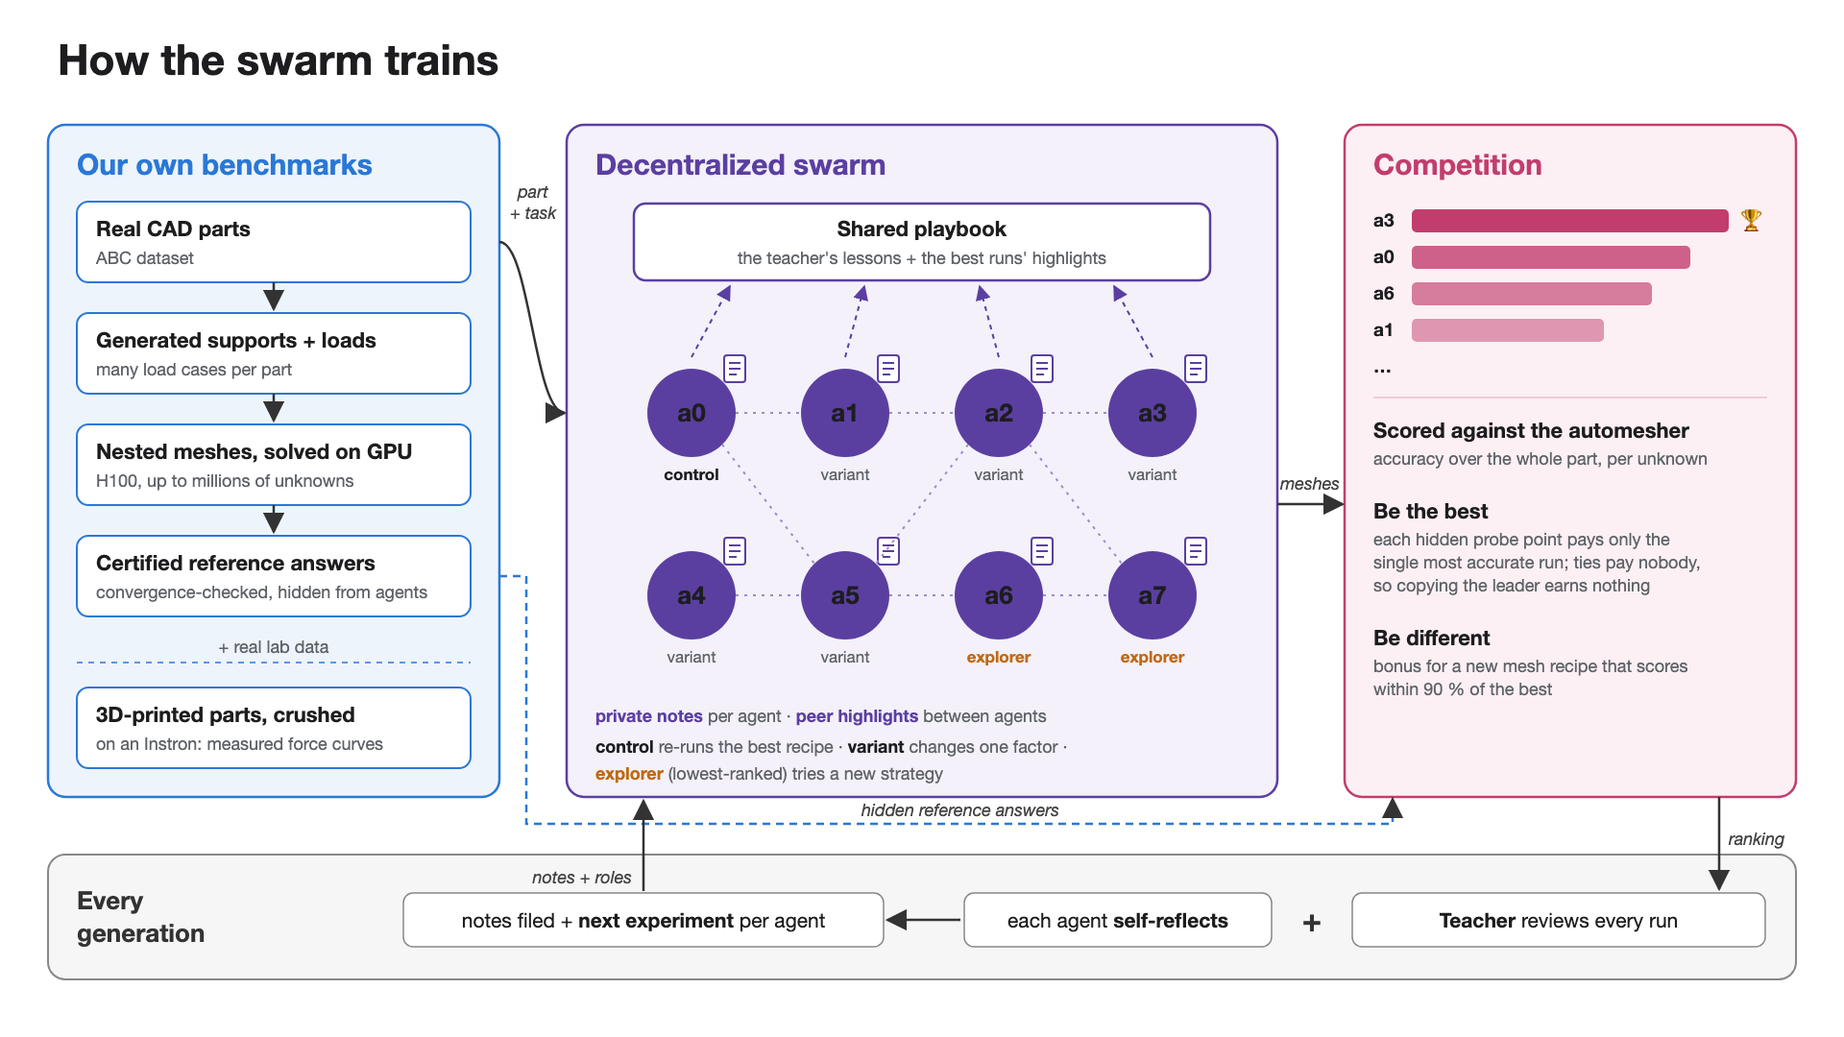
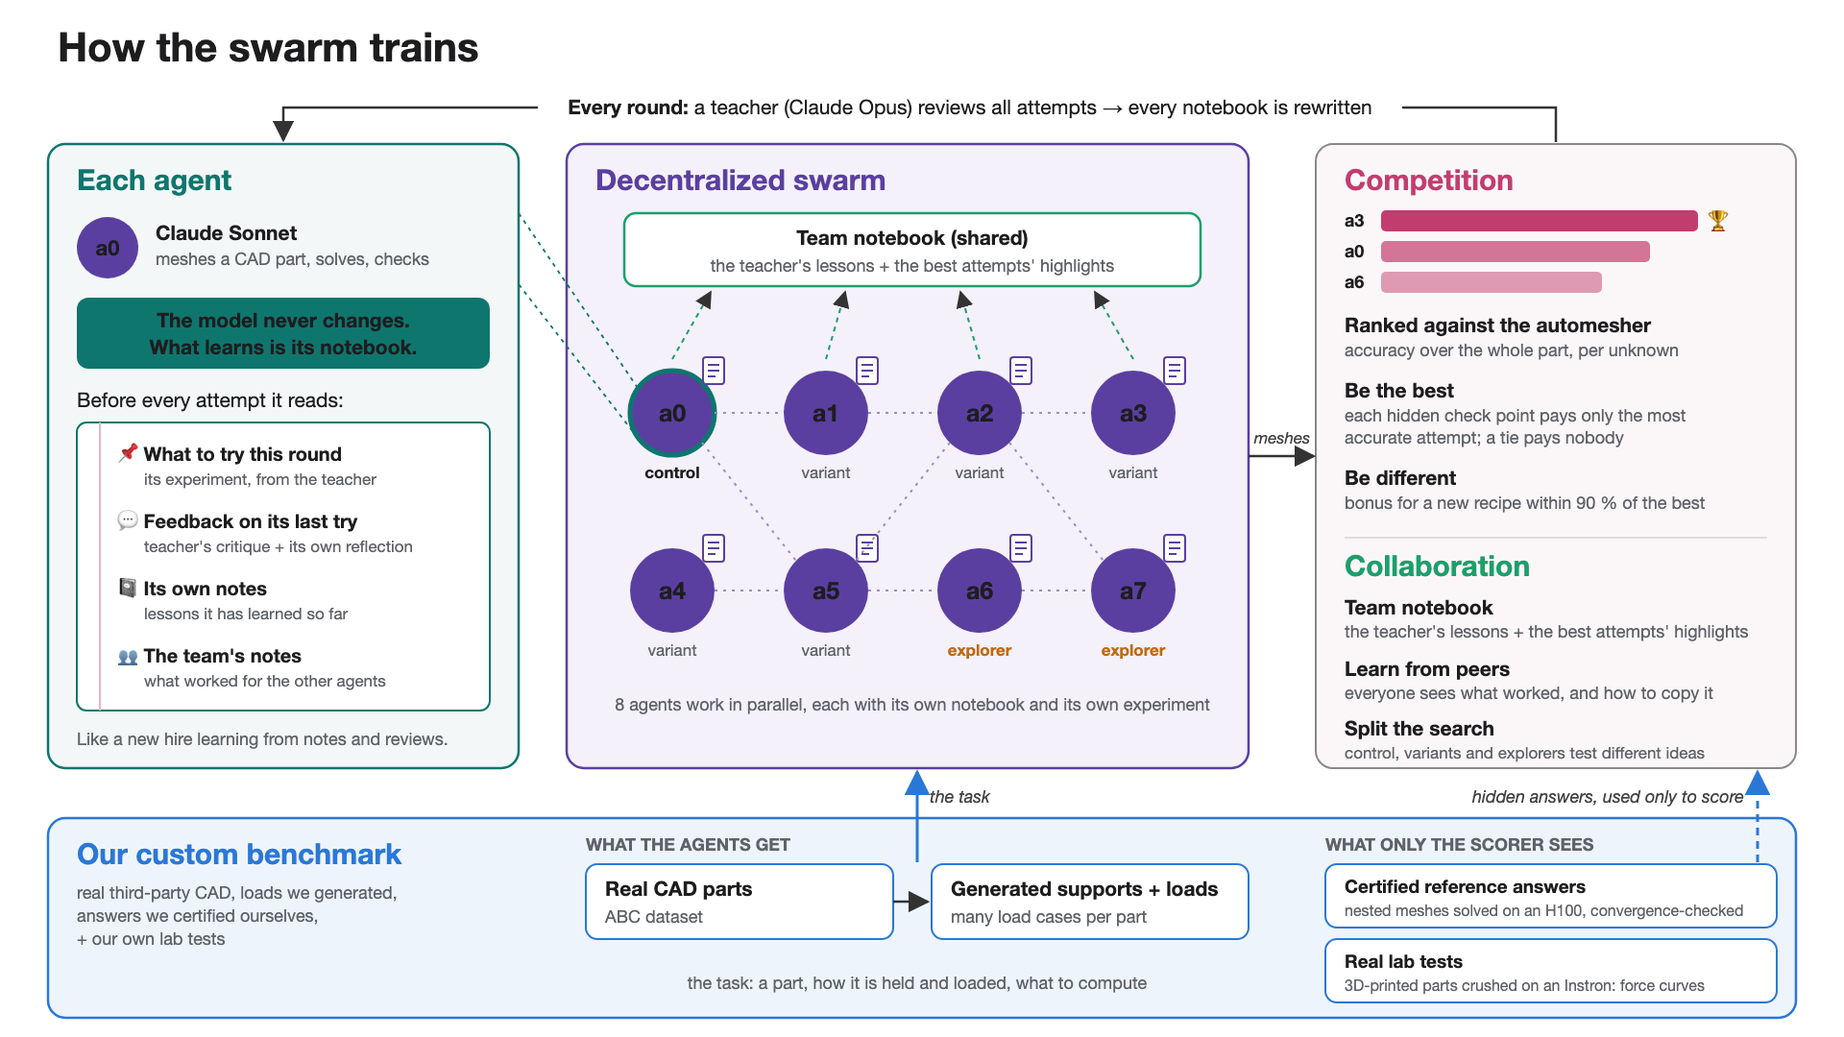
Talk schematic: agent + notebook (left), swarm (middle), competition + collaboration (right), custom benchmark feeding task and hidden answers (bottom)

Changed region(s): [[0.0312, 0.0306, 0.9688, 1.0], [0.3438, 0.5194, 0.6562, 0.6417]]

diff --git a/talk_plots/schematic/training_system.html b/talk_plots/schematic/training_system.html
@@ -4,7 +4,7 @@
   html, body { margin: 0; background: #ffffff; }
   svg { display: block; font-family: -apple-system, "Helvetica Neue", Helvetica, Arial, sans-serif; }
   .h { font-size: 30px; font-weight: 700; }
-  .t { font-size: 22px; fill: #1d1d1f; }
+  .t { font-size: 21px; fill: #1d1d1f; }
   .s { font-size: 18px; fill: #5f6368; }
   .b { font-weight: 700; }
   .lbl { font-size: 18px; fill: #444; font-style: italic; }
@@ -14,133 +14,136 @@
   <defs>
     <marker id="ar" viewBox="0 0 10 10" refX="9" refY="5" markerWidth="9" markerHeight="9" orient="auto-start-reverse">
       <path d="M0,0 L10,5 L0,10 z" fill="#333"/></marker>
-    <marker id="arp" viewBox="0 0 10 10" refX="9" refY="5" markerWidth="8" markerHeight="8" orient="auto-start-reverse">
-      <path d="M0,0 L10,5 L0,10 z" fill="#5b3fa0"/></marker>
+    <marker id="arb" viewBox="0 0 10 10" refX="9" refY="5" markerWidth="9" markerHeight="9" orient="auto-start-reverse">
+      <path d="M0,0 L10,5 L0,10 z" fill="#2a78d6"/></marker>
     <g id="notes"><rect x="0" y="0" width="22" height="28" rx="3" fill="#fff" stroke="#5b3fa0" stroke-width="2"/>
       <line x1="5" y1="8" x2="17" y2="8" stroke="#5b3fa0" stroke-width="2"/><line x1="5" y1="14" x2="17" y2="14" stroke="#5b3fa0" stroke-width="2"/>
       <line x1="5" y1="20" x2="13" y2="20" stroke="#5b3fa0" stroke-width="2"/></g>
   </defs>
 
-  <text x="60" y="78" style="font-size:44px;font-weight:800" fill="#1d1d1f">How the swarm trains</text>
+  <text x="60" y="64" style="font-size:42px;font-weight:800" fill="#1d1d1f">How the swarm trains</text>
 
-  <!-- ============ 1. benchmarks ============ -->
-  <rect x="50" y="130" width="470" height="700" rx="18" fill="#eef4fc" stroke="#2a78d6" stroke-width="2.5"/>
-  <text x="80" y="182" class="h" fill="#2a78d6">Our own benchmarks</text>
-  <g>
-    <rect x="80" y="210" width="410" height="84" rx="12" fill="#fff" stroke="#2a78d6" stroke-width="2"/>
-    <text x="100" y="246" class="t b">Real CAD parts</text><text x="100" y="275" class="s">ABC dataset</text>
-    <line x1="285" y1="294" x2="285" y2="322" stroke="#333" stroke-width="2.5" marker-end="url(#ar)"/>
-    <rect x="80" y="326" width="410" height="84" rx="12" fill="#fff" stroke="#2a78d6" stroke-width="2"/>
-    <text x="100" y="362" class="t b">Generated supports + loads</text><text x="100" y="391" class="s">many load cases per part</text>
-    <line x1="285" y1="410" x2="285" y2="438" stroke="#333" stroke-width="2.5" marker-end="url(#ar)"/>
-    <rect x="80" y="442" width="410" height="84" rx="12" fill="#fff" stroke="#2a78d6" stroke-width="2"/>
-    <text x="100" y="478" class="t b">Nested meshes, solved on GPU</text><text x="100" y="507" class="s">H100, up to millions of unknowns</text>
-    <line x1="285" y1="526" x2="285" y2="554" stroke="#333" stroke-width="2.5" marker-end="url(#ar)"/>
-    <rect x="80" y="558" width="410" height="84" rx="12" fill="#fff" stroke="#2a78d6" stroke-width="2"/>
-    <text x="100" y="594" class="t b">Certified reference answers</text><text x="100" y="623" class="s">convergence-checked, hidden from agents</text>
-  </g>
-  <line x1="80" y1="690" x2="490" y2="690" stroke="#2a78d6" stroke-width="1.5" stroke-dasharray="6 6"/>
-  <text x="285" y="680" class="s" text-anchor="middle" fill="#2a78d6">+ real lab data</text>
-  <g>
-    <rect x="80" y="716" width="410" height="84" rx="12" fill="#fff" stroke="#2a78d6" stroke-width="2"/>
-    <text x="100" y="752" class="t b">3D-printed parts, crushed</text><text x="100" y="781" class="s">on an Instron: measured force curves</text>
-  </g>
+  <!-- ===== every-generation loop (over the top: results -> rewritten notebooks) ===== -->
+  <path d="M1620,148 L1620,112 L295,112 L295,146" stroke="#333" stroke-width="2.5" fill="none" marker-end="url(#ar)"/>
+  <rect x="560" y="96" width="900" height="32" fill="#fff"/>
+  <text x="1010" y="119" class="t" text-anchor="middle" style="font-size:21px"><tspan class="b">Every round:</tspan> a teacher (Claude Opus) reviews all attempts → every notebook is rewritten</text>
 
-  <!-- ============ 2. decentralized swarm ============ -->
-  <rect x="590" y="130" width="740" height="700" rx="18" fill="#f4f1fb" stroke="#5b3fa0" stroke-width="2.5"/>
-  <text x="620" y="182" class="h" fill="#5b3fa0">Decentralized swarm</text>
-  <!-- shared playbook -->
-  <rect x="660" y="212" width="600" height="80" rx="12" fill="#fff" stroke="#5b3fa0" stroke-width="2.5"/>
-  <text x="960" y="246" class="t b" text-anchor="middle">Shared playbook</text>
-  <text x="960" y="275" class="s" text-anchor="middle">the teacher's lessons + the best runs' highlights</text>
-  <!-- promotion arrows -->
-  <g stroke="#5b3fa0" stroke-width="2" stroke-dasharray="5 5" fill="none" marker-end="url(#arp)">
-    <path d="M720,372 L760,298"/><path d="M880,372 L900,298"/><path d="M1040,372 L1020,298"/><path d="M1200,372 L1160,298"/>
+  <!-- ================= LEFT: one agent, learning by notebook ================= -->
+  <rect x="50" y="150" width="490" height="650" rx="18" fill="#f3f7f7" stroke="#0f766e" stroke-width="2.5"/>
+  <text x="80" y="198" class="h" fill="#0f766e">Each agent</text>
+  <circle cx="112" cy="258" r="32" fill="#5b3fa0"/><text x="112" y="266" class="t b" fill="#fff" text-anchor="middle" style="font-size:22px">a0</text>
+  <text x="162" y="250" class="t b">Claude Sonnet</text>
+  <text x="162" y="276" class="s">meshes a CAD part, solves, checks</text>
+  <rect x="80" y="310" width="430" height="74" rx="12" fill="#0f766e"/>
+  <text x="295" y="341" class="t b" fill="#fff" text-anchor="middle">The model never changes.</text>
+  <text x="295" y="369" class="t b" fill="#fff" text-anchor="middle">What learns is its notebook.</text>
+  <text x="80" y="424" class="t">Before every attempt it reads:</text>
+  <!-- notebook -->
+  <rect x="80" y="440" width="430" height="300" rx="10" fill="#fff" stroke="#0f766e" stroke-width="2"/>
+  <line x1="104" y1="440" x2="104" y2="740" stroke="#e8b4c4" stroke-width="2"/>
+  <g class="t" style="font-size:20px">
+    <text x="122" y="480" class="b">📌 What to try this round</text>
+    <text x="150" y="505" class="s" style="font-size:17px">its experiment, from the teacher</text>
+    <text x="122" y="550" class="b">💬 Feedback on its last try</text>
+    <text x="150" y="575" class="s" style="font-size:17px">teacher's critique + its own reflection</text>
+    <text x="122" y="620" class="b">📓 Its own notes</text>
+    <text x="150" y="645" class="s" style="font-size:17px">lessons it has learned so far</text>
+    <text x="122" y="690" class="b">👥 The team's notes</text>
+    <text x="150" y="715" class="s" style="font-size:17px">what worked for the other agents</text>
   </g>
-  <!-- agents -->
-  <g id="agents">
-    <!-- row 1 -->
-    <g transform="translate(720,430)"><circle r="46" fill="#5b3fa0"/><text y="9" class="t b" fill="#fff" text-anchor="middle" style="font-size:26px">a0</text><use href="#notes" x="34" y="-60"/></g>
-    <g transform="translate(880,430)"><circle r="46" fill="#5b3fa0"/><text y="9" class="t b" fill="#fff" text-anchor="middle" style="font-size:26px">a1</text><use href="#notes" x="34" y="-60"/></g>
-    <g transform="translate(1040,430)"><circle r="46" fill="#5b3fa0"/><text y="9" class="t b" fill="#fff" text-anchor="middle" style="font-size:26px">a2</text><use href="#notes" x="34" y="-60"/></g>
-    <g transform="translate(1200,430)"><circle r="46" fill="#5b3fa0"/><text y="9" class="t b" fill="#fff" text-anchor="middle" style="font-size:26px">a3</text><use href="#notes" x="34" y="-60"/></g>
-    <!-- row 2 -->
-    <g transform="translate(720,620)"><circle r="46" fill="#5b3fa0"/><text y="9" class="t b" fill="#fff" text-anchor="middle" style="font-size:26px">a4</text><use href="#notes" x="34" y="-60"/></g>
-    <g transform="translate(880,620)"><circle r="46" fill="#5b3fa0"/><text y="9" class="t b" fill="#fff" text-anchor="middle" style="font-size:26px">a5</text><use href="#notes" x="34" y="-60"/></g>
-    <g transform="translate(1040,620)"><circle r="46" fill="#5b3fa0"/><text y="9" class="t b" fill="#fff" text-anchor="middle" style="font-size:26px">a6</text><use href="#notes" x="34" y="-60"/></g>
-    <g transform="translate(1200,620)"><circle r="46" fill="#5b3fa0"/><text y="9" class="t b" fill="#fff" text-anchor="middle" style="font-size:26px">a7</text><use href="#notes" x="34" y="-60"/></g>
+  <text x="80" y="776" class="s">Like a new hire learning from notes and reviews.</text>
+
+  <!-- ================= MIDDLE: the swarm ================= -->
+  <rect x="590" y="150" width="710" height="650" rx="18" fill="#f4f1fb" stroke="#5b3fa0" stroke-width="2.5"/>
+  <text x="620" y="198" class="h" fill="#5b3fa0">Decentralized swarm</text>
+  <rect x="650" y="222" width="600" height="76" rx="12" fill="#fff" stroke="#1e9e6a" stroke-width="2.5"/>
+  <text x="950" y="255" class="t b" text-anchor="middle">Team notebook (shared)</text>
+  <text x="950" y="283" class="s" text-anchor="middle">the teacher's lessons + the best attempts' highlights</text>
+  <g stroke="#1e9e6a" stroke-width="2" stroke-dasharray="5 5" fill="none" marker-end="url(#ar)">
+    <path d="M700,374 L740,304"/><path d="M860,374 L880,304"/><path d="M1020,374 L1000,304"/><path d="M1180,374 L1140,304"/>
   </g>
-  <!-- role tags -->
+  <g>
+    <g transform="translate(700,430)"><circle r="44" fill="#5b3fa0" stroke="#0f766e" stroke-width="5"/><text y="9" class="t b" fill="#fff" text-anchor="middle" style="font-size:25px">a0</text><use href="#notes" x="32" y="-58"/></g>
+    <g transform="translate(860,430)"><circle r="44" fill="#5b3fa0"/><text y="9" class="t b" fill="#fff" text-anchor="middle" style="font-size:25px">a1</text><use href="#notes" x="32" y="-58"/></g>
+    <g transform="translate(1020,430)"><circle r="44" fill="#5b3fa0"/><text y="9" class="t b" fill="#fff" text-anchor="middle" style="font-size:25px">a2</text><use href="#notes" x="32" y="-58"/></g>
+    <g transform="translate(1180,430)"><circle r="44" fill="#5b3fa0"/><text y="9" class="t b" fill="#fff" text-anchor="middle" style="font-size:25px">a3</text><use href="#notes" x="32" y="-58"/></g>
+    <g transform="translate(700,615)"><circle r="44" fill="#5b3fa0"/><text y="9" class="t b" fill="#fff" text-anchor="middle" style="font-size:25px">a4</text><use href="#notes" x="32" y="-58"/></g>
+    <g transform="translate(860,615)"><circle r="44" fill="#5b3fa0"/><text y="9" class="t b" fill="#fff" text-anchor="middle" style="font-size:25px">a5</text><use href="#notes" x="32" y="-58"/></g>
+    <g transform="translate(1020,615)"><circle r="44" fill="#5b3fa0"/><text y="9" class="t b" fill="#fff" text-anchor="middle" style="font-size:25px">a6</text><use href="#notes" x="32" y="-58"/></g>
+    <g transform="translate(1180,615)"><circle r="44" fill="#5b3fa0"/><text y="9" class="t b" fill="#fff" text-anchor="middle" style="font-size:25px">a7</text><use href="#notes" x="32" y="-58"/></g>
+  </g>
   <g class="s" text-anchor="middle" style="font-size:17px">
-    <text x="720" y="500" fill="#1d1d1f" class="b">control</text>
-    <text x="880" y="500">variant</text><text x="1040" y="500">variant</text><text x="1200" y="500">variant</text>
-    <text x="720" y="690">variant</text><text x="880" y="690">variant</text>
-    <text x="1040" y="690" fill="#c06a12" class="b">explorer</text><text x="1200" y="690" fill="#c06a12" class="b">explorer</text>
+    <text x="700" y="498" fill="#1d1d1f" class="b">control</text>
+    <text x="860" y="498">variant</text><text x="1020" y="498">variant</text><text x="1180" y="498">variant</text>
+    <text x="700" y="683">variant</text><text x="860" y="683">variant</text>
+    <text x="1020" y="683" fill="#c06a12" class="b">explorer</text><text x="1180" y="683" fill="#c06a12" class="b">explorer</text>
   </g>
-  <!-- peer links -->
   <g stroke="#9b8cc8" stroke-width="2" fill="none" stroke-dasharray="3 6">
-    <path d="M766,430 L834,430"/><path d="M926,430 L994,430"/><path d="M1086,430 L1154,430"/>
-    <path d="M766,620 L834,620"/><path d="M926,620 L994,620"/><path d="M1086,620 L1154,620"/>
-    <path d="M752,463 L848,587"/><path d="M1072,463 L1168,587"/><path d="M1008,463 L912,587"/>
+    <path d="M744,430 L816,430"/><path d="M904,430 L976,430"/><path d="M1064,430 L1136,430"/>
+    <path d="M744,615 L816,615"/><path d="M904,615 L976,615"/><path d="M1064,615 L1136,615"/>
+    <path d="M731,461 L829,584"/><path d="M1051,461 L1149,584"/><path d="M989,461 L891,584"/>
   </g>
-  <text x="620" y="752" class="s"><tspan class="b" fill="#5b3fa0">private notes</tspan> per agent · <tspan class="b" fill="#5b3fa0">peer highlights</tspan> between agents</text>
-  <text x="620" y="784" class="s"><tspan class="b" fill="#1d1d1f">control</tspan> re-runs the best recipe · <tspan class="b" fill="#1d1d1f">variant</tspan> changes one factor ·</text>
-  <text x="620" y="812" class="s"><tspan class="b" fill="#c06a12">explorer</tspan> (lowest-ranked) tries a new strategy</text>
-
-  <!-- ============ 3. competition ============ -->
-  <rect x="1400" y="130" width="470" height="700" rx="18" fill="#fcf0f4" stroke="#c23d6e" stroke-width="2.5"/>
-  <text x="1430" y="182" class="h" fill="#c23d6e">Competition</text>
-  <!-- leaderboard -->
-  <g class="t" style="font-size:19px">
-    <text x="1430" y="236" class="b" fill="#1d1d1f">a3</text><rect x="1470" y="218" width="330" height="24" rx="5" fill="#c23d6e"/>
-    <text x="1812" y="238" style="font-size:22px">🏆</text>
-    <text x="1430" y="274" class="b" fill="#1d1d1f">a0</text><rect x="1470" y="256" width="290" height="24" rx="5" fill="#c23d6e" opacity="0.8"/>
-    <text x="1430" y="312" class="b" fill="#1d1d1f">a6</text><rect x="1470" y="294" width="250" height="24" rx="5" fill="#c23d6e" opacity="0.65"/>
-    <text x="1430" y="350" class="b" fill="#1d1d1f">a1</text><rect x="1470" y="332" width="200" height="24" rx="5" fill="#c23d6e" opacity="0.5"/>
-    <text x="1430" y="388" class="b" fill="#1d1d1f">…</text>
+  <text x="950" y="740" class="s" text-anchor="middle">8 agents work in parallel, each with its own notebook and its own experiment</text>
+  <!-- zoom: a0 is the agent described on the left -->
+  <g stroke="#0f766e" stroke-width="1.8" stroke-dasharray="4 5" fill="none">
+    <path d="M664,404 L540,222"/><path d="M664,456 L540,296"/>
   </g>
-  <line x1="1430" y1="414" x2="1840" y2="414" stroke="#c23d6e" stroke-width="1" opacity="0.4"/>
-  <text x="1430" y="456" class="t b">Scored against the automesher</text>
-  <text x="1430" y="484" class="s">accuracy over the whole part, per unknown</text>
-  <text x="1430" y="540" class="t b">Be the best</text>
-  <text x="1430" y="568" class="s">each hidden probe point pays only the</text>
-  <text x="1430" y="592" class="s">single most accurate run; ties pay nobody,</text>
-  <text x="1430" y="616" class="s">so copying the leader earns nothing</text>
-  <text x="1430" y="672" class="t b">Be different</text>
-  <text x="1430" y="700" class="s">bonus for a new mesh recipe that scores</text>
-  <text x="1430" y="724" class="s">within 90 % of the best</text>
 
-  <!-- ============ 4. learning loop (runs right to left) ============ -->
-  <rect x="50" y="890" width="1820" height="130" rx="18" fill="#f6f6f7" stroke="#888" stroke-width="2"/>
-  <text x="80" y="947" class="h" fill="#333" style="font-size:26px">Every</text>
-  <text x="80" y="981" class="h" fill="#333" style="font-size:26px">generation</text>
+  <!-- ================= RIGHT: competition + collaboration ================= -->
+  <rect x="1370" y="150" width="500" height="650" rx="18" fill="#fbf7f9" stroke="#888" stroke-width="2"/>
+  <text x="1400" y="198" class="h" fill="#c23d6e">Competition</text>
   <g>
-    <rect x="420" y="930" width="500" height="56" rx="10" fill="#fff" stroke="#888" stroke-width="1.5"/>
-    <text x="670" y="966" class="t" text-anchor="middle" style="font-size:21px">notes filed + <tspan class="b">next experiment</tspan> per agent</text>
-    <line x1="1000" y1="958" x2="924" y2="958" stroke="#333" stroke-width="2.5" marker-end="url(#ar)"/>
-    <rect x="1004" y="930" width="320" height="56" rx="10" fill="#fff" stroke="#888" stroke-width="1.5"/>
-    <text x="1164" y="966" class="t" text-anchor="middle" style="font-size:21px">each agent <tspan class="b">self-reflects</tspan></text>
-    <text x="1366" y="970" text-anchor="middle" style="font-size:34px;font-weight:700" fill="#333">+</text>
-    <rect x="1408" y="930" width="430" height="56" rx="10" fill="#fff" stroke="#888" stroke-width="1.5"/>
-    <text x="1623" y="966" class="t" text-anchor="middle" style="font-size:21px"><tspan class="b">Teacher</tspan> reviews every run</text>
+    <text x="1400" y="236" class="t b" style="font-size:18px">a3</text><rect x="1438" y="219" width="330" height="22" rx="5" fill="#c23d6e"/><text x="1778" y="238" style="font-size:20px">🏆</text>
+    <text x="1400" y="268" class="t b" style="font-size:18px">a0</text><rect x="1438" y="251" width="280" height="22" rx="5" fill="#c23d6e" opacity="0.7"/>
+    <text x="1400" y="300" class="t b" style="font-size:18px">a6</text><rect x="1438" y="283" width="230" height="22" rx="5" fill="#c23d6e" opacity="0.5"/>
   </g>
+  <text x="1400" y="346" class="t b">Ranked against the automesher</text>
+  <text x="1400" y="371" class="s">accuracy over the whole part, per unknown</text>
+  <text x="1400" y="414" class="t b">Be the best</text>
+  <text x="1400" y="439" class="s">each hidden check point pays only the most</text>
+  <text x="1400" y="462" class="s">accurate attempt; a tie pays nobody</text>
+  <text x="1400" y="505" class="t b">Be different</text>
+  <text x="1400" y="530" class="s">bonus for a new recipe within 90 % of the best</text>
+  <line x1="1400" y1="560" x2="1840" y2="560" stroke="#888" stroke-width="1" opacity="0.5"/>
+  <text x="1400" y="600" class="h" fill="#1e9e6a">Collaboration</text>
+  <text x="1400" y="640" class="t b">Team notebook</text>
+  <text x="1400" y="664" class="s">the teacher's lessons + the best attempts' highlights</text>
+  <text x="1400" y="704" class="t b">Learn from peers</text>
+  <text x="1400" y="728" class="s">everyone sees what worked, and how to copy it</text>
+  <text x="1400" y="766" class="t b">Split the search</text>
+  <text x="1400" y="790" class="s" style="font-size:17px">control, variants and explorers test different ideas</text>
 
-  <!-- ============ flows ============ -->
-  <!-- benchmarks -> swarm: the task -->
-  <path d="M520,252 C552,252 556,430 588,430" stroke="#333" stroke-width="2.5" fill="none" marker-end="url(#ar)"/>
-  <text x="555" y="206" class="lbl" text-anchor="middle">part</text>
-  <text x="555" y="228" class="lbl" text-anchor="middle">+ task</text>
-  <!-- swarm -> competition: meshes -->
-  <line x1="1330" y1="525" x2="1398" y2="525" stroke="#333" stroke-width="2.5" marker-end="url(#ar)"/>
-  <text x="1364" y="510" class="lbl" text-anchor="middle">meshes</text>
-  <!-- hidden reference -> competition -->
-  <path d="M520,600 L548,600 L548,858 L1450,858 L1450,832" stroke="#2a78d6" stroke-width="2.5" fill="none" stroke-dasharray="8 6" marker-end="url(#ar)"/>
-  <text x="1000" y="850" class="lbl" text-anchor="middle" fill="#2a78d6">hidden reference answers</text>
-  <!-- competition -> learning -->
-  <line x1="1790" y1="830" x2="1790" y2="926" stroke="#333" stroke-width="2.5" marker-end="url(#ar)"/>
-  <text x="1800" y="880" class="lbl">ranking</text>
-  <!-- learning -> swarm -->
-  <line x1="670" y1="928" x2="670" y2="834" stroke="#333" stroke-width="2.5" marker-end="url(#ar)"/>
-  <text x="658" y="920" class="lbl" text-anchor="end">notes + roles</text>
+  <!-- swarm -> right -->
+  <line x1="1300" y1="475" x2="1368" y2="475" stroke="#333" stroke-width="2.5" marker-end="url(#ar)"/>
+  <text x="1335" y="462" class="lbl" text-anchor="middle" style="font-size:17px">meshes</text>
+
+  <!-- ================= BOTTOM: custom benchmark ================= -->
+  <rect x="50" y="852" width="1820" height="208" rx="18" fill="#eef4fc" stroke="#2a78d6" stroke-width="2.5"/>
+  <text x="80" y="900" class="h" fill="#2a78d6">Our custom benchmark</text>
+  <text x="80" y="936" class="s">real third-party CAD, loads we generated,</text>
+  <text x="80" y="960" class="s">answers we certified ourselves,</text>
+  <text x="80" y="984" class="s">+ our own lab tests</text>
+
+  <text x="610" y="886" class="s b" fill="#2a78d6">WHAT THE AGENTS GET</text>
+  <rect x="610" y="900" width="320" height="78" rx="12" fill="#fff" stroke="#2a78d6" stroke-width="2"/>
+  <text x="630" y="933" class="t b">Real CAD parts</text><text x="630" y="961" class="s">ABC dataset</text>
+  <line x1="930" y1="939" x2="966" y2="939" stroke="#333" stroke-width="2.5" marker-end="url(#ar)"/>
+  <rect x="970" y="900" width="330" height="78" rx="12" fill="#fff" stroke="#2a78d6" stroke-width="2"/>
+  <text x="990" y="933" class="t b">Generated supports + loads</text><text x="990" y="961" class="s">many load cases per part</text>
+  <text x="955" y="1030" class="s" text-anchor="middle">the task: a part, how it is held and loaded, what to compute</text>
+
+  <text x="1380" y="886" class="s b" fill="#2a78d6">WHAT ONLY THE SCORER SEES</text>
+  <rect x="1380" y="900" width="470" height="66" rx="12" fill="#fff" stroke="#2a78d6" stroke-width="2"/>
+  <text x="1400" y="930" class="t b" style="font-size:19px">Certified reference answers</text>
+  <text x="1400" y="954" class="s" style="font-size:16px">nested meshes solved on an H100, convergence-checked</text>
+  <rect x="1380" y="978" width="470" height="66" rx="12" fill="#fff" stroke="#2a78d6" stroke-width="2"/>
+  <text x="1400" y="1008" class="t b" style="font-size:19px">Real lab tests</text>
+  <text x="1400" y="1032" class="s" style="font-size:16px">3D-printed parts crushed on an Instron: force curves</text>
+
+  <!-- benchmark -> swarm, benchmark -> scoring -->
+  <line x1="955" y1="898" x2="955" y2="804" stroke="#2a78d6" stroke-width="3" marker-end="url(#arb)"/>
+  <text x="968" y="836" class="lbl" fill="#2a78d6">the task</text>
+  <line x1="1830" y1="898" x2="1830" y2="804" stroke="#2a78d6" stroke-width="3" stroke-dasharray="8 6" marker-end="url(#arb)"/>
+  <text x="1816" y="836" class="lbl" fill="#2a78d6" text-anchor="end">hidden answers, used only to score</text>
 </svg>
 </body></html>
